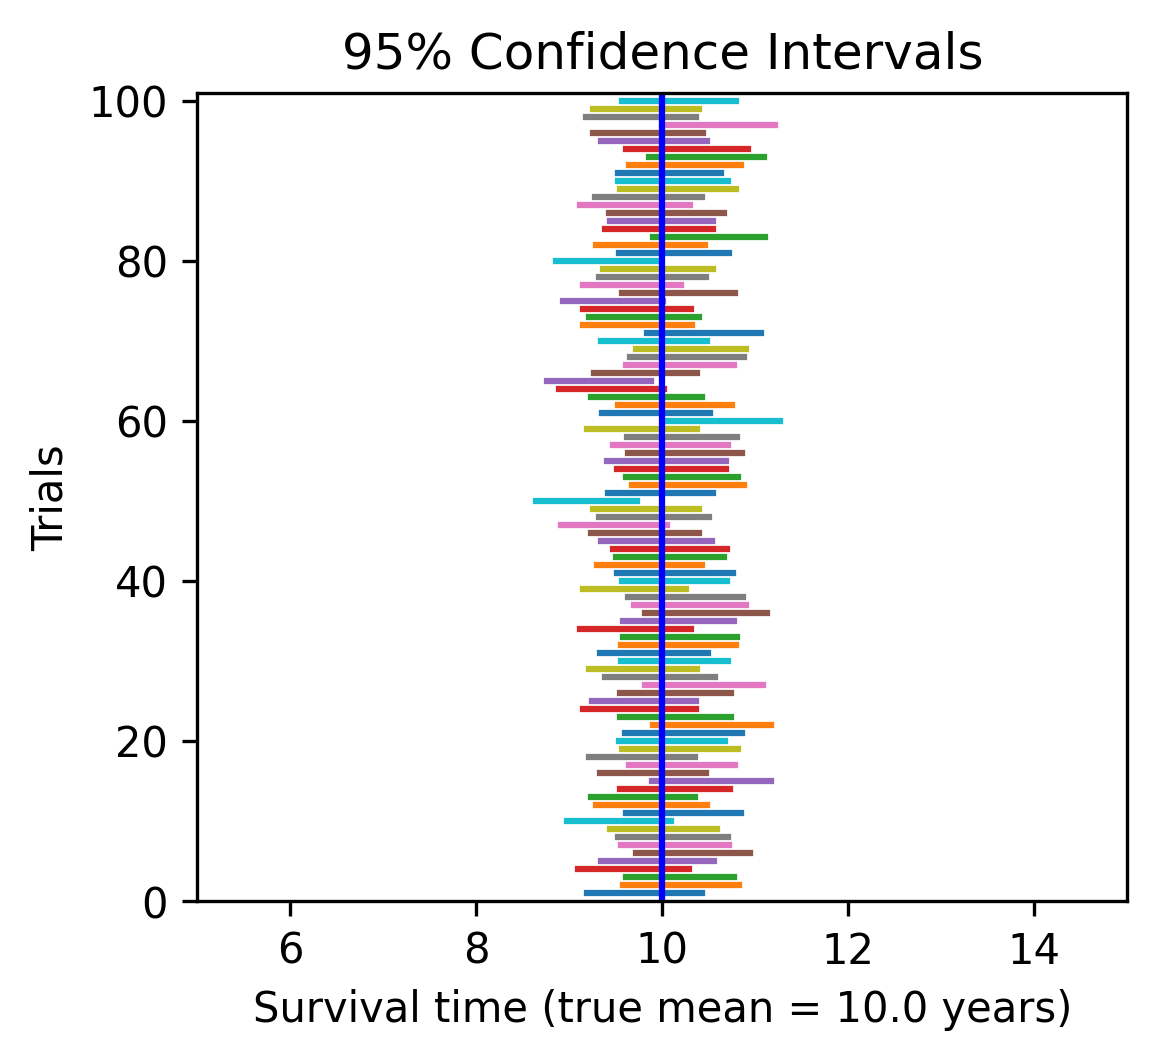
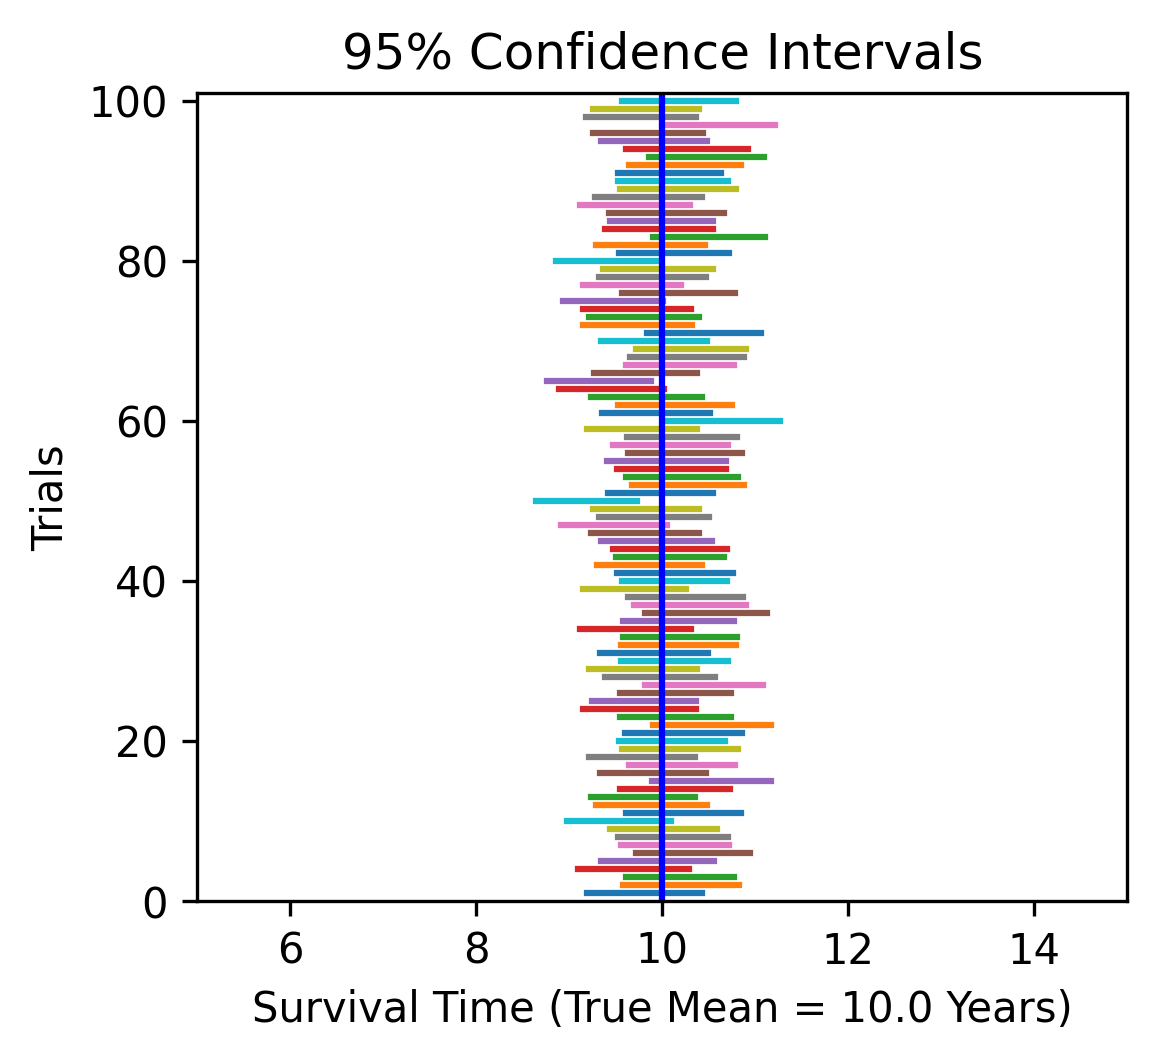
pi

Changed region(s): [[0.2178, 0.9331, 0.6845, 0.9642], [0.7156, 0.9331, 0.8401, 0.9642], [0.8712, 0.9331, 0.9334, 0.9642]]

diff --git a/SimulateSteadyState.py b/SimulateSteadyState.py
@@ -1,7 +1,7 @@
 import SurvivalModelClasses as Cls
-import SimPy.Plots.SamplePaths as Path
-import SimPy.Plots.Histogram as Hist
-import SimPy.Statistics as Stat
+import deampy.plots.sample_paths as path
+import deampy.plots.histogram as hist
+import deampy.statistics as stat
 
 MORTALITY_PROB = 0.1    # annual probability of death
 TIME_STEPS = 100        # years
@@ -14,21 +14,21 @@ myCohort = Cls.Cohort(id=1, pop_size=SIM_POP_SIZE, mortality_prob=MORTALITY_PROB
 myCohort.simulate(n_time_steps=TIME_STEPS)
 
 # plot the sample path
-Path.plot_sample_path(
+path.plot_sample_path(
     sample_path=myCohort.cohortOutcomes.nLivingPatients,
     title='Survival Curve',
     x_label='Time-Step (Year)',
     y_label='Number Survived')
 
 # plot the histogram
-Hist.plot_histogram(
+hist.plot_histogram(
     data=myCohort.cohortOutcomes.survivalTimes,
     title='Histogram of Patient Survival Time',
     x_label='Survival Time (Year)',
     y_label='Count')
 
 # create a summary statistics for observations of survival times
-survivalTimeStat = Stat.SummaryStat(name='Summary statistics of survival time',
+survivalTimeStat = stat.SummaryStat(name='Summary statistics of survival time',
                                     data=myCohort.cohortOutcomes.survivalTimes)
 
 # print the summary statistics

diff --git a/TestPredictionInterval.py b/TestPredictionInterval.py
@@ -10,11 +10,11 @@ COHORT_POP_SIZE = 100      # population size of the cohort
 
 nSimCohorts = []    # number of simulated cohorts used to make predictions
 # will be populated with [2^2, 2^3, 2^4, ... , 2^13 = 8,192]
-for i in range(2, 11):
+for i in range(2, 10):
     nSimCohorts.append(pow(2, i))
 
 # create the figure
-fig = plt.figure('Prediction Intervals', figsize=(4.5, 4))
+fig = plt.figure('Prediction Intervals', figsize=(4, 3.5))
 plt.title('{:.0%} Prediction Intervals'.format(1-ALPHA))
 plt.xlim([max(1/MORTALITY_PROB - 5, 0), 1/MORTALITY_PROB + 5])   # range of x-axis
 plt.ylim([nSimCohorts[0]/2, nSimCohorts[-1]*2])     # range of y-axis
@@ -45,7 +45,10 @@ for n in nSimCohorts:
     plt.semilogy(mean_x, mean_y, 'ko', base=2)  # draw the estimated mean (in log scale)
     plt.semilogy(PI_xs, PI_ys, 'k', base=2)     # draw the confidence interval (in log scale)
 
+plt.axvline(1/MORTALITY_PROB, color='b', ls='--', linewidth=.5)
+
 # labels
-plt.ylabel('Number of simulated cohorts')
-plt.xlabel('Survival time' + ' (true mean = ' + str(1/MORTALITY_PROB) + ')')
-plt.show()
+plt.ylabel('Number of Simulated Cohorts')
+plt.xlabel('Survival Time (Years)' + ' (Expected Value = ' + str(1/MORTALITY_PROB) + ')')
+plt.tight_layout()
+plt.savefig('figs/95pi.png', dpi=300)

diff --git a/TestConfidenceInterval.py b/TestConfidenceInterval.py
@@ -50,7 +50,7 @@ def plot_cis(n, alpha):
 
     # labels
     ax.set_ylabel('Trials')
-    ax.set_xlabel('Survival time' + ' (true mean = ' + str(1 / MORTALITY_PROB) + ' years)')
+    ax.set_xlabel('Survival Time' + ' (True Mean = ' + str(1 / MORTALITY_PROB) + ' Years)')
     output_figure(plt=fig, filename='figs/{:.0f}ci with n={}.png'.format(100*(1-alpha), n))
 
 

diff --git a/TestHypothesis.py b/TestHypothesis.py
@@ -73,6 +73,6 @@ plt.annotate(' True Unknown Mean ',
 #              horizontalalignment='right')
 
 # labels
-plt.ylabel('Population size of the simulated cohort')
-plt.xlabel('Mean survival time')
+plt.ylabel('Population Size of the Simulated Cohort')
+plt.xlabel('Mean Survival Time')
 output_figure(plt, filename='figs/ci by n.png')
